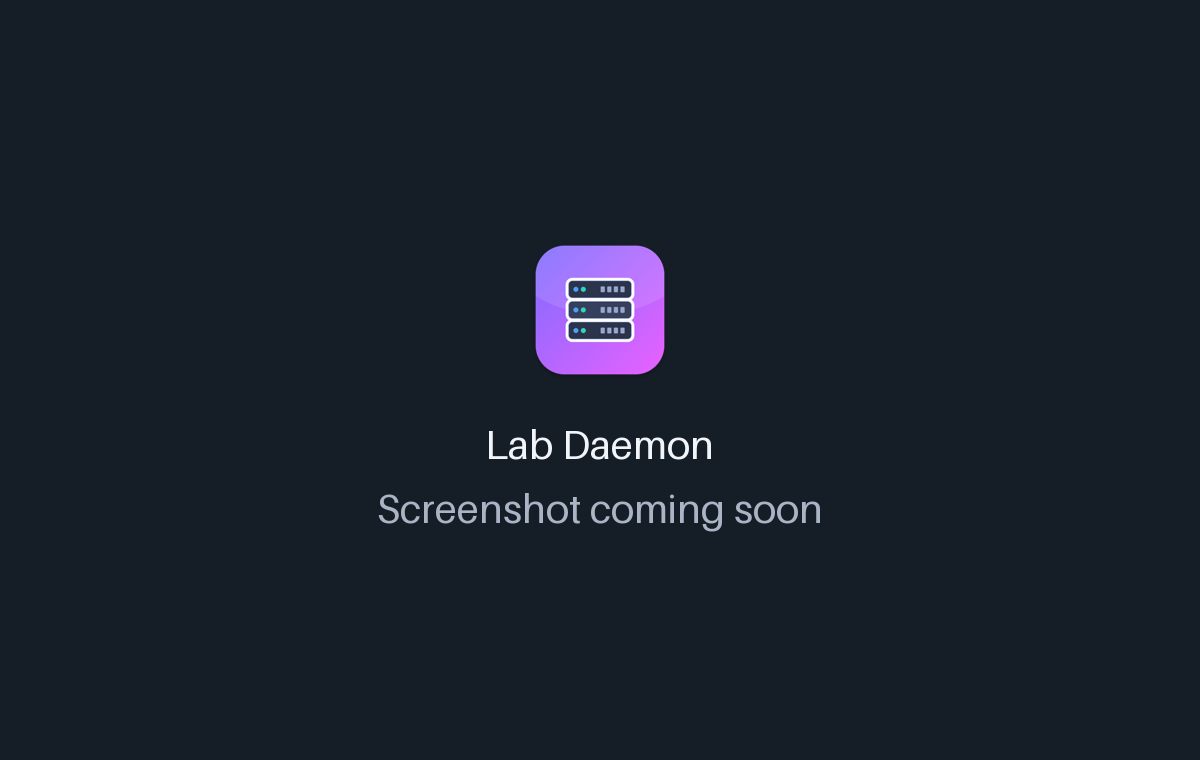
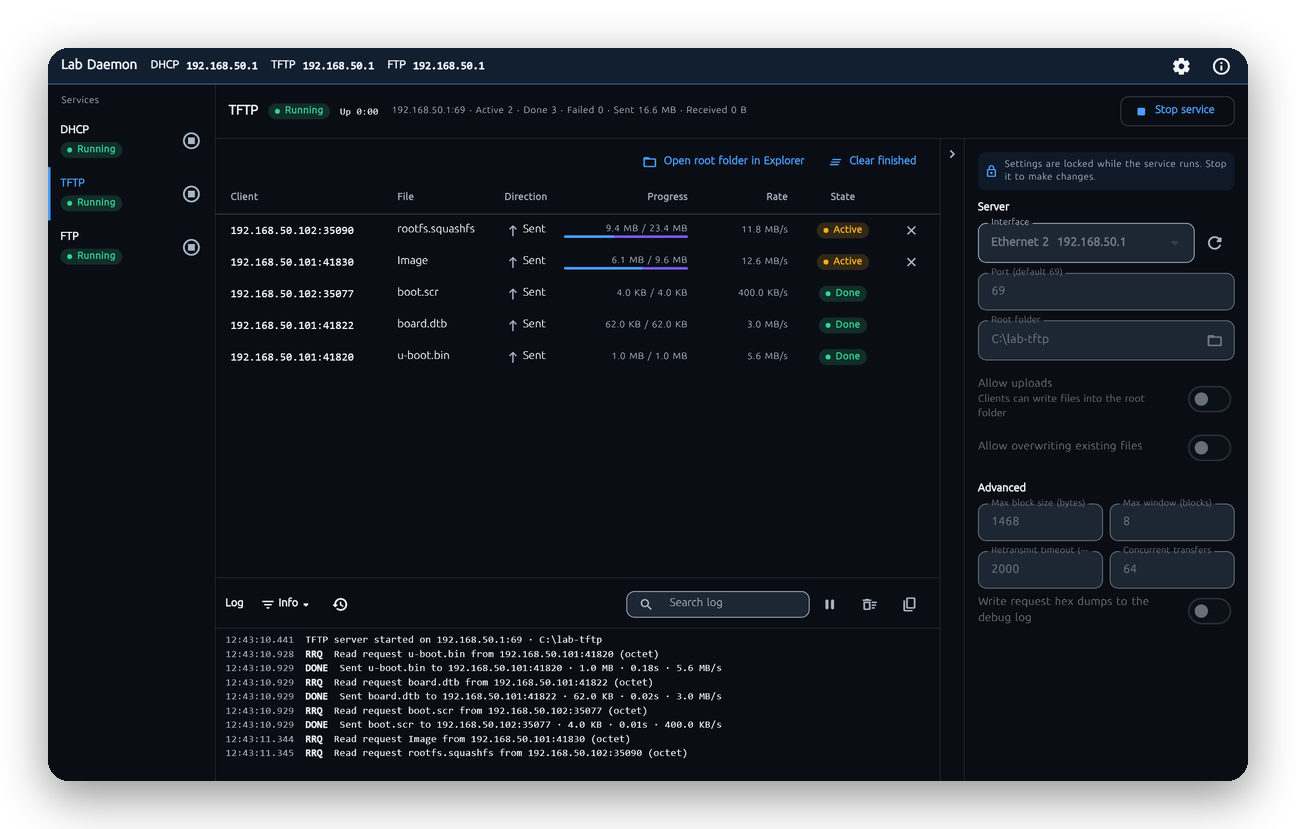
docs: 정식 릴리스용 README 정비 (실제 기능·설치·동작 방식, 스크린샷·데모 GIF, ARCHITECTURE.md)
- README.md/README.ko.md의 TODO를 모두 채움: 기능 5개, 방화벽·일반 권한 설치 안내, 빠른 시작, 동작 방식, 개발 안내
- 자리 표시 이미지를 실제 화면(TFTP 전송 중, DHCP Lease)과 11초 데모 GIF로 교체, 원본은 docs/screenshots/raw
- 개발자용 ARCHITECTURE.md 추가 (구조, Isolate·성능 원칙, 시작 전 점검, 시험)

diff --git a/README.ko.md b/README.ko.md
@@ -1,6 +1,5 @@
 <!-- From jejezz/application-release-templates common/tool/readme @ conventions-v1.
-     tool/readme/init_readme.py가 만든 파일입니다 — conventions/readme-guide.md 참고.
-     {{TODO: …}}를 모두 채우십시오. 하나라도 남아 있으면 tool/readme/check_readme.py가 실패합니다. -->
+     구성과 규칙: conventions/readme-guide.md, 검사: tool/readme/check_readme.py. -->
 
 <p align="center">
   <img src="assets/icon/app_icon.png" width="128" alt="Lab Daemon 아이콘">
@@ -25,19 +24,21 @@
 </p>
 
 <p align="center">
-  <img src="docs/screenshots/demo.gif" width="720" alt="Lab Daemon 데모: {{TODO: GIF가 보여주는 흐름}}">
+  <img src="docs/screenshots/demo.gif" width="720" alt="Lab Daemon 데모: TFTP·FTP 서버를 켜고 파일을 내려받으며 클라이언트와 로그를 확인">
 </p>
 
 ## 기능
 
-- **{{TODO: 기능}}** — {{TODO: 무엇을 하는지 구체적으로 (이름, 숫자, 형식)}}
-- **{{TODO: 기능}}** — {{TODO: …}}
-- **{{TODO: 기능}}** — {{TODO: …}}
-- **라이트·다크, 한국어·English** — 시스템 설정을 따르거나 툴바에서 고를 수 있습니다
+- **DHCP 서버** — 정한 범위(서브넷, 게이트웨이, DNS, 임대 시간)에서 주소를 나눠 주고 DISCOVER/OFFER/REQUEST/ACK, NAK, RELEASE, DECLINE, INFORM을 처리합니다. 보드가 어디서 부팅할지 알려 주고(옵션 66/67), Lease 표에서 한 번에 해제할 수 있습니다. 켜기 전에 같은 망의 다른 DHCP 서버를 찾아 경고합니다.
+- **TFTP 서버** — RFC 1350에 블록 크기·시간 제한·전송 크기 옵션(RFC 2347~2349)과 윈도 크기(RFC 7440), netascii, 선택 업로드를 지원합니다. 20MB 이미지를 loopback에서 초당 약 13~20MB로 보냅니다.
+- **FTP 서버** — 계정 하나와 선택 익명 로그인(계정별 권한 설정 없음), 패시브(PASV/EPSV)·액티브(PORT/EPRT), 이어받기, FileZilla 같은 클라이언트용 목록을 지원합니다. 비밀번호는 솔트 해시로만 저장합니다.
+- **클라이언트 현황을 실시간으로** — 서비스마다 따로 설정, 클라이언트 표(Lease·전송·세션과 속도), 로그(100~5000줄)가 있고, 앱 바에 클라이언트가 접속할 주소가 나옵니다. 요청이 쏟아져도 로그와 표가 가볍게 유지됩니다.
+- **시작할 때 점검** — 서비스를 켤 때 포트 충돌, Windows 방화벽 허용 규칙 없음(Windows 버전에 맞춘 단계별 안내, 복사할 `netsh` 명령, 한 번에 추가), Windows가 예약한 포트를 확인합니다.
+- **라이트·다크, 색 구성, 한국어·English** — 시스템 설정을 따르거나 설정에서 고를 수 있고, 글자 크기도 조절할 수 있습니다
 
 <p align="center">
-  <img src="docs/screenshots/home.png" width="360" alt="{{TODO: 화면 1}}">
-  <img src="docs/screenshots/detail.png" width="360" alt="{{TODO: 화면 2}}">
+  <img src="docs/screenshots/home.png" width="360" alt="TFTP 서버가 파일을 보내는 중인 전송 표와 로그">
+  <img src="docs/screenshots/detail.png" width="360" alt="DHCP 서버의 Lease 표와 설정 패널">
 </p>
 
 ## 설치
@@ -50,9 +51,15 @@
 
 **Windows:** 설치 프로그램에 아직 코드 서명이 없어서 SmartScreen이 "Windows의 PC 보호" 창을 띄웁니다. **추가 정보 → 실행**을 누르세요.
 
+앱은 일반 권한으로 실행하며, UDP 67/69와 TCP 21을 열 때 관리자 권한이 필요 없습니다. 관리자 권한으로 도는 설치 프로그램이 Windows 방화벽 인바운드 규칙을 넣어 줍니다. 다른 위치에서 실행한 복사본(개발 빌드 등)은 서비스를 켤 때 해결 방법 안내와 한 번에 규칙을 넣는 단추가 나옵니다.
+
+**빠른 시작:** 사이드바에서 서비스를 고르고, 오른쪽 설정 패널에서 폴더(TFTP·FTP)나 주소 범위(DHCP)를 정한 뒤 **서비스 시작**을 누릅니다. 클라이언트는 앱 바에 나오는 주소로 접속하며, 포트는 프로토콜 기본값(TFTP 69, FTP 21)이 아닐 때만 표시됩니다.
+
+> **DHCP:** 직접 관리하는 망에서만 켜세요. DHCP 서버가 둘이면 기존 서버가 방해받을 수 있습니다. 켜기 전에 다른 서버가 있는지 확인하지만, 전용 스위치를 쓰는 실험대에서 쓰는 것이 안전합니다.
+
 ## 동작 방식
 
-{{TODO: 궁금한 사람을 위한 2~4문장 — 흥미로운 기술적 선택 한 가지. 말할 것이 없으면 이 절을 지웁니다.}}
+서비스마다 자기 Dart Isolate에서 돌아서 패킷이 쏟아져도 화면이 막히지 않고, Isolate는 패킷마다 메시지를 보내는 대신 100ms마다 이벤트를 한 묶음으로 화면에 보냅니다(스냅샷은 최신 것만, 로그는 묶음마다 상한). Windows에서는 OS 버퍼가 차면 `RawDatagramSocket.send`가 패킷을 조용히 버리기 때문에, 모든 UDP 응답을 소켓이 쓸 수 있을 때 다시 보내는 전송 큐를 거칩니다. TFTP와 FTP는 루트 폴더 밖으로 나갈 수 없습니다(`..`, 드라이브 문자, 대체 데이터 스트림, 링크 탈출 차단).
 
 ## 개발
 
@@ -61,7 +68,9 @@ flutter pub get
 flutter run -d windows
 ```
 
-{{TODO: 빌드에 더 필요한 것(네이티브 도구, 환경 변수). 구조 문서 링크: [ARCHITECTURE.md](ARCHITECTURE.md), [UI_UX.md](UI_UX.md).}}
+Windows 데스크톱을 지원하는 Flutter 3.47이 필요합니다(Visual Studio의 "C++를 사용한 데스크톱 개발" 워크로드). 검사는 `flutter analyze`와 `flutter test`로 합니다. 앱은 Skia로 그리며, Impeller를 써 보려면 `--enable-impeller`(또는 환경 변수 `LABDAEMON_IMPELLER=1`)를 붙입니다.
+
+구조와 결정: [ARCHITECTURE.md](ARCHITECTURE.md), 계획: [PLAN.md](PLAN.md).
 
 릴리스: `scripts/bump-version.sh patch` → 병합 → `vX.Y.Z` 태그. CI가 모든 플랫폼을 빌드해서 올립니다. 규칙: [application-release-templates/conventions](https://github.com/jejezz/application-release-templates/tree/main/conventions).
 

diff --git a/README.md b/README.md
@@ -1,6 +1,5 @@
 <!-- From jejezz/application-release-templates common/tool/readme @ conventions-v1.
-     Generated by tool/readme/init_readme.py — see conventions/readme-guide.md.
-     Fill every {{TODO: …}}; tool/readme/check_readme.py fails while any is left. -->
+     Structure and rules: conventions/readme-guide.md; checked by tool/readme/check_readme.py. -->
 
 <p align="center">
   <img src="assets/icon/app_icon.png" width="128" alt="Lab Daemon icon">
@@ -25,19 +24,21 @@
 </p>
 
 <p align="center">
-  <img src="docs/screenshots/demo.gif" width="720" alt="Lab Daemon demo: {{TODO: what the GIF shows, e.g. open, scan, clean}}">
+  <img src="docs/screenshots/demo.gif" width="720" alt="Lab Daemon demo: start the TFTP and FTP servers, serve files, watch clients and logs">
 </p>
 
 ## Features
 
-- **{{TODO: Feature}}** — {{TODO: what it does, concretely (names, numbers, formats)}}
-- **{{TODO: Feature}}** — {{TODO: …}}
-- **{{TODO: Feature}}** — {{TODO: …}}
-- **Light & dark, English & 한국어** — follows the system, or pick one in the toolbar
+- **DHCP server** — hands out addresses from a range you set (subnet, gateway, DNS, lease time) with DISCOVER/OFFER/REQUEST/ACK, NAK, RELEASE, DECLINE and INFORM; tells boards where to boot from (options 66/67); a lease table with one-click release. Before starting it probes for another DHCP server on the network and warns you.
+- **TFTP server** — RFC 1350 with block size, timeout and transfer size options (RFC 2347–2349) and window size (RFC 7440), netascii, optional uploads; about 13–20 MB/s on loopback with a 20 MB image.
+- **FTP server** — one account plus optional anonymous login (no per-user permission matrix), passive (PASV/EPSV) and active (PORT/EPRT) modes, resume, listings for FileZilla and friends; passwords are kept only as salted hashes.
+- **A live view of every client** — each service has its own settings, client table (leases, transfers, sessions with speeds) and log (100–5000 lines), and the title bar shows the address clients should connect to. The log and tables stay light even under a flood of requests.
+- **Checks when you press Start, not before** — port conflicts, a missing Windows Firewall rule (with step-by-step help for your Windows version, a copyable `netsh` command and a one-click add), and ports Windows has reserved.
+- **Light & dark, color schemes, English & 한국어** — follows the system, or pick them (and the text size) in Settings
 
 <p align="center">
-  <img src="docs/screenshots/home.png" width="360" alt="{{TODO: screen 1}}">
-  <img src="docs/screenshots/detail.png" width="360" alt="{{TODO: screen 2}}">
+  <img src="docs/screenshots/home.png" width="360" alt="TFTP server serving files, with the transfer table and log">
+  <img src="docs/screenshots/detail.png" width="360" alt="DHCP server with its lease table and settings panel">
 </p>
 
 ## Install
@@ -50,9 +51,15 @@ Download from [**Releases**](https://github.com/jejezz/lab-daemon-flutter/releas
 
 **Windows:** the installer isn't code-signed yet, so SmartScreen says "Windows protected your PC" — choose **More info → Run anyway**.
 
+The app runs as a normal user — no administrator rights are needed to listen on UDP 67/69 or TCP 21. The installer (which does run as administrator) adds an inbound Windows Firewall rule for it; a copy run from another folder gets a how-to-fix hint and a one-click rule instead.
+
+**Quick start:** pick a service in the sidebar, set its folder (TFTP, FTP) or address range (DHCP) in the settings panel on the right, and press **Start service**. Clients connect to the address shown in the title bar; the port is shown only when it isn't the protocol default (TFTP 69, FTP 21).
+
+> **DHCP:** run it only on a network you own. A second DHCP server can disturb the first — Lab Daemon checks for one before starting, but a lab bench with its own switch is the safe place.
+
 ## How it works
 
-{{TODO: 2–4 sentences for the curious — the one interesting technical choice (e.g. "Dart drives the UI; a 100-line Swift bridge covers Trash and Full Disk Access"). Delete this section if there is nothing interesting to say.}}
+Each service runs in its own Dart isolate, so a flood of packets never blocks the UI; the isolate sends the UI one batch of events every 100 ms (latest snapshot wins, logs are capped per batch) instead of one message per packet. On Windows, `RawDatagramSocket.send` silently drops a datagram when the OS buffer is full, so every UDP reply goes through a small send queue that retries when the socket is writable. TFTP and FTP are confined to their root folder (no `..`, drive letters, alternate streams or link escapes).
 
 ## Development
 
@@ -61,7 +68,9 @@ flutter pub get
 flutter run -d windows
 ```
 
-{{TODO: Anything else needed to build (native tools, env vars). Link docs/ for architecture: [ARCHITECTURE.md](ARCHITECTURE.md), [UI_UX.md](UI_UX.md).}}
+You need Flutter 3.47 with Windows desktop support (Visual Studio with the "Desktop development with C++" workload). Run the checks with `flutter analyze` and `flutter test`. The app renders with Skia; add `--enable-impeller` (or set `LABDAEMON_IMPELLER=1`) to try Impeller.
+
+Architecture and decisions: [ARCHITECTURE.md](ARCHITECTURE.md) (Korean), plan: [PLAN.md](PLAN.md).
 
 Releasing: `scripts/bump-version.sh patch`, merge, then tag `vX.Y.Z` — CI builds and publishes every platform. Rules: [application-release-templates/conventions](https://github.com/jejezz/application-release-templates/tree/main/conventions).
 

diff --git a/ARCHITECTURE.md b/ARCHITECTURE.md
@@ -1,0 +1,71 @@
+# Lab Daemon 구조
+
+개발자용 문서입니다. 사용법은 [README](README.ko.md), 작업 규칙과 결정의 이유는 [CLAUDE.md](CLAUDE.md), 계획과 진행은 [PLAN.md](PLAN.md)에 있습니다.
+
+## 한눈에
+
+```
+lib/
+  core/       순수 Dart: 서비스(DHCP·TFTP·FTP), 시작 전 점검, 소켓·파일 도구
+  state/      화면이 읽는 모델: 서비스별 설정·상태·로그·클라이언트 스냅샷
+  ui/         서비스 화면, 표, 로그 패널, 대화상자
+  settings/   앱 설정 창(외형: 모드·색 구성·언어·글자 크기)
+  l10n/       ARB(ko 원본, en)
+```
+
+화면(`ui`)은 모델(`state`)을 보고, 모델은 서비스(`core`)를 `ServiceHost`로만 만납니다. `core`는 Flutter를 모릅니다.
+
+## 서비스와 Isolate
+
+- 모든 서비스는 `NetService`(`core/service.dart`)를 구현하고 `BaseNetService`가 공통을 맡습니다: 상태(`stopped`·`starting`·`running`·`error`), 이벤트 스트림, 최신 것만 남기는 스냅샷(`scheduleSnapshot`).
+- 각 서비스는 **자기 Isolate**에서 돕니다(`IsolateHost`, `core/host.dart`). 시험은 같은 Isolate에서 도는 `InProcessHost`를 씁니다.
+- 설정은 `ServiceConfig.toJson`/`fromJson`으로 Isolate 경계를 건넙니다. 서비스는 UI 객체를 모릅니다.
+- 서비스 → 화면 이벤트는 `EventBatcher`가 100ms마다 한 묶음으로 보냅니다. 같은 종류의 스냅샷은 최신 것만, 로그는 묶음마다 400줄까지이고 넘치면 "N건 건너뜀" 한 줄을 남깁니다.
+
+## 서비스
+
+| 서비스 | 위치 | 요점 |
+|---|---|---|
+| DHCP | `core/dhcp/` | `engine`(순수 로직: DORA·NAK·RELEASE·DECLINE·INFORM), `pool`(주소 풀·Lease), `transport`(UDP 67), `detector`(다른 DHCP 서버 찾기) |
+| TFTP | `core/tftp/` | `packet`(파서), `transfer`(전송 하나: 윈도 크기·재전송), `server`(UDP 69, 전송마다 소켓), `netascii` |
+| FTP | `core/ftp/` | `session`(제어 연결 하나), `server`(수락·패시브 포트 관리), `config`(계정 하나 + 익명) |
+
+공통 도구: `fs_sandbox.dart`(TFTP·FTP가 루트 폴더 밖으로 나가지 못하게), `udp_queue.dart`(Windows에서 `send`가 0을 돌려주고 패킷을 버리는 문제를 막는 전송 큐), `socket_errors.dart`(바인딩 오류를 "포트 사용 중"·"권한 없음"으로 구분).
+
+## 시작 전 점검
+
+`core/netcheck.dart`의 `PreStartChecker`가 서비스를 **켤 때** 그 서비스의 포트만 봅니다.
+
+- 포트 충돌: `netstat -ano` + `tasklist` (막음)
+- 방화벽 허용 규칙: 레지스트리 조회 (경고, 해결 방법 안내와 [방화벽 규칙 추가])
+- FTP 패시브 범위의 Windows 예약 포트: `netsh int ipv4 show excludedportrange` (경고/막음)
+- DHCP: 다른 DHCP 서버 (DISCOVER 프로브, 경고)
+
+PowerShell cmdlet은 10초 가까이 걸리고 `netsh` 일반 출력은 번역되어서 쓰지 않습니다. 결과는 로그에 `CHECK` 줄로 남고, 화면은 `ui/actions.dart`의 대화상자로 보여 줍니다.
+
+## 상태와 화면
+
+- `state/service_model.dart`: 서비스마다 하나인 `ServiceModel`. 설정(입력 문자열 그대로 `<서비스>_<이름>` 키로 저장), 상태, **그 서비스만의 로그**(`LogBus`, 보관 줄 수 선택), 클라이언트 스냅샷, 시작 절차(검증 → 점검 → 확인 → 시작)를 가집니다.
+- `state/controller.dart`: 세 모델과 선택한 서비스, NIC 목록을 묶습니다.
+- 화면은 앱 바(켜진 서비스의 접속 주소) + 사이드바(서비스 목록) + 서비스 화면입니다. 서비스 화면은 가운데 클라이언트 표, 아래 로그, 오른쪽에 접히는 설정 패널입니다. 서비스 설정은 서비스마다 따로 두고 한 화면에 섞지 않습니다.
+- 서비스 로그는 번역하지 않은 ARB 키와 인자로 나가고 `ui/log_format.dart`가 문구로 바꿉니다. 새 로그 키를 만들면 포맷터와 ARB(ko·en)도 함께 더합니다(`test/log_format_test.dart`가 빠진 키와 안 쓰는 키를 잡습니다).
+
+## 성능 원칙
+
+3CDaemon의 약점(요청이 몰리면 화면이 굳음)을 피하는 것이 설계의 중심입니다.
+
+- 패킷 처리 경로에서는 로그나 표를 만들지 않습니다. 표 스냅샷은 200~250ms에 한 번, 로그는 요청·완료·실패 같은 사건에만.
+- 로그 패널은 보이는 줄만 그리고, 번역 문구를 줄마다 한 번만 만들며(`Expando`), 필터는 새 줄에만 적용합니다.
+- 렌더러는 Skia입니다(Impeller는 `--enable-impeller`로 켬).
+
+## 시험
+
+`flutter test`로 돌립니다.
+
+- `test/core/`: 서비스는 실제 loopback 소켓으로 시험합니다(`test/support/tftp_client.dart`, `ftp_client.dart`). DHCP는 가짜 전송(`fake_transport.dart`)으로 패킷을 주고받습니다.
+- `test/home_screen_test.dart`: 위젯 시험. 실제 소켓·파일 I/O와 서비스 `stop()`은 `tester.runAsync`로 감싸고, 끝에서 화면을 내린 뒤 서비스를 멈춥니다.
+- DHCP 실장비 시험은 같은 망의 다른 DHCP 서버를 방해할 수 있어 프로젝트 말미로 미룹니다.
+
+## 배포
+
+규약(`application-release-templates/conventions`)을 따릅니다: 태그 `vX.Y.Z`를 밀면 CI(`release.yml`)가 Windows 설치 프로그램(Inno Setup)을 만들어 GitHub Releases에 올립니다. 설치 프로그램은 관리자 권한으로 돌며 방화벽 인바운드 규칙을 넣고 지웁니다. 앱은 일반 권한으로 실행합니다.
